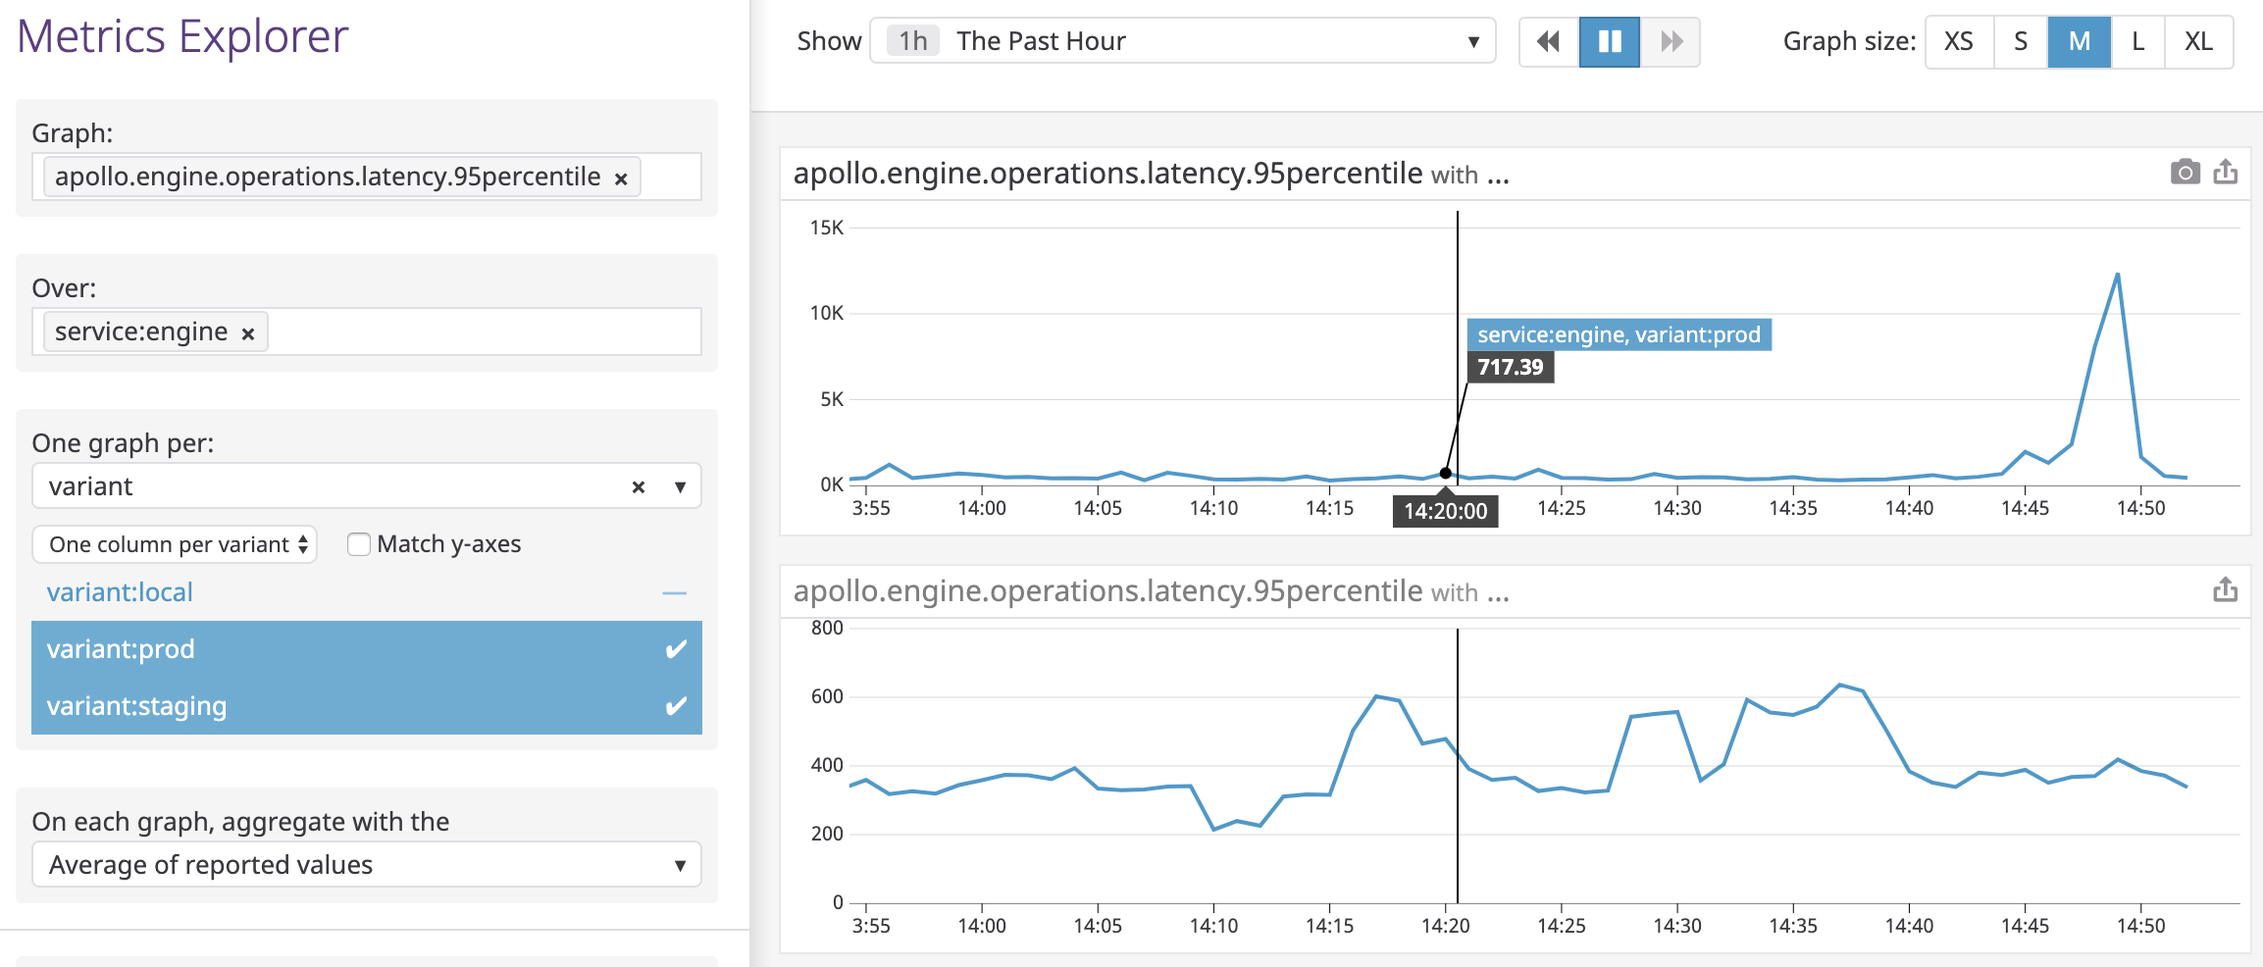
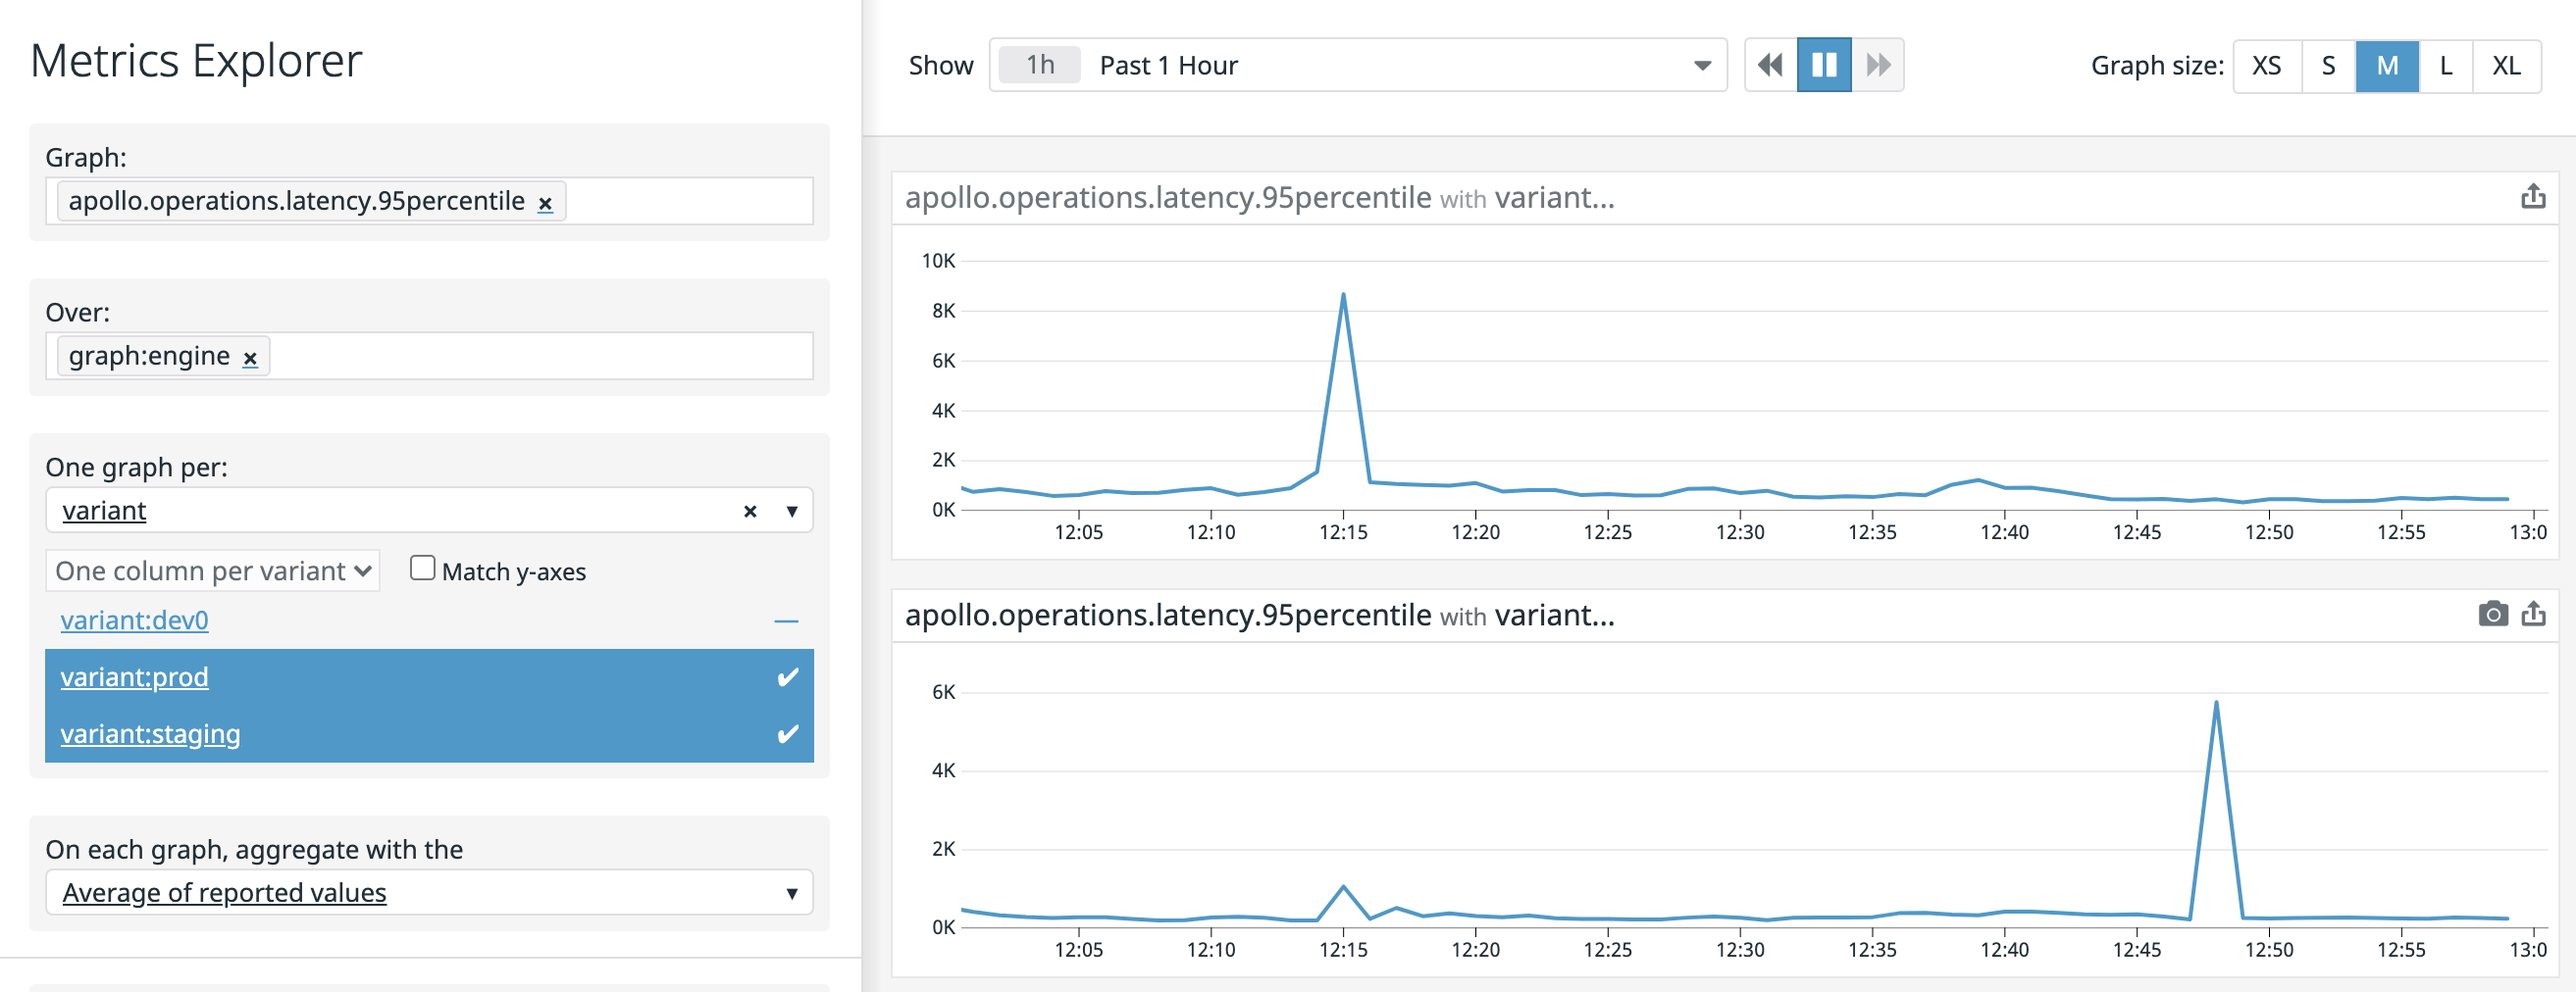
[AR-1853] Update Datadog integration docs for new metric names

diff --git a/studio-docs/source/datadog-integration.md b/studio-docs/source/datadog-integration.md
@@ -9,7 +9,7 @@ The **Apollo Datadog integration** enables you to forward Studio performance met
 
 To integrate with Datadog, you provide your Datadog API key and region to Studio. A Datadog account with administrator privileges is required to obtain an API key.
 
-1. Go to your [Datadog Integrations page](https://app.datadoghq.com/account/settings) and select **Apollo Engine** from the list:
+1. Go to your [Datadog Integrations page](https://app.datadoghq.com/account/settings) and select **Apollo** from the list:
 
     ![DatadogIntegrationTile](./img/datadog/integration-tile.png)
 
@@ -32,7 +32,7 @@ To integrate with Datadog, you provide your Datadog API key and region to Studio
 
     ![IntegrationsToggle](./img/datadog/settings-toggle.png)
 
-    You can use the same Datadog API key for all of your graphs, because all forwarded metrics are tagged with the corresponding graph's ID (`service:<graph-id>`).
+    You can use the same Datadog API key for all of your graphs, because all forwarded metrics are tagged with the corresponding graph's ID (`graph:<graph-id>`).
 
 6. That's it! After about five minutes, your Datadog metrics explorer will begin showing metrics forwarded from Studio.
 
@@ -42,29 +42,31 @@ Studio forwards the following metrics to Datadog:
 
 | Name | Description |
 | ------- | --------- |
-| `apollo.engine.operations.count` | The number of GraphQL operations that were executed. This includes queries, mutations, and operations that resulted in an error. |
-| `apollo.engine.operations.error_count` | The number of GraphQL operations that resulted in an error. This includes both GraphQL execution errors and HTTP errors if Studio failed to connect to your server. |
-| `apollo.engine.operations.cache_hit_count` | The number of GraphQL queries for which the result was served from Apollo Server's full query cache. |
-|`apollo.engine.operations.latency.min`<br/>`apollo.engine.operations.latency.median`<br/>`apollo.engine.operations.latency.95percentile`<br/>`apollo.engine.operations.latency.99percentile`<br/>`apollo.engine.operations.latency.max`<br/>`apollo.engine.operations.latency.avg`| A histogram of GraphQL operation response times, measured in milliseconds. Because of Studio's aggregation method (logarithmic binning), these values are accurate to +/- 5%. |
+| `apollo.operations.count` | The number of GraphQL operations that were executed. This includes queries, mutations, and operations that resulted in an error. |
+| `apollo.operations.error_count` | The number of GraphQL operations that resulted in an error. This includes both GraphQL execution errors and HTTP errors if Studio failed to connect to your server. |
+| `apollo.operations.cache_hit_count` | The number of GraphQL queries for which the result was served from Apollo Server's full query cache. |
+|`apollo.operations.latency.min`<br/>`apollo.operations.latency.median`<br/>`apollo.operations.latency.95percentile`<br/>`apollo.operations.latency.99percentile`<br/>`apollo.operations.latency.max`<br/>`apollo.operations.latency.avg`| A histogram of GraphQL operation response times, measured in milliseconds. Because of Studio's aggregation method (logarithmic binning), these values are accurate to +/- 5%. |
 
 
 These metrics are aggregated in 60-second intervals and tagged with the GraphQL operation name as `operation:<query-name>`. Unique query signatures with the same operation name are merged, and queries without an operation name are ignored.
 
-These metrics are also tagged with both the associated Studio graph ID (as `service:<graph-id>`) and the associated variant name (as `variant:<variant-name>`). If you haven't set a variant name, then `current` is used.
+These metrics are also tagged with both the associated Studio graph ID (as `graph:<graph-id>`) and the associated variant name (as `variant:<variant-name>`). If you haven't set a variant name, then `current` is used.
+
+If you set up your integration before October 2020, the metric names start with `apollo.engine.operations` instead of `apollo.operations`, and used a `service:<graph-id>` tag instead of `graph:<graph-id>`. This is called "legacy mode". You may transition your graph to modern mode by clicking the "Transition to modern mode" button on your graph's Integrations page. This is a one-way change; you should be prepared to update any dashboards and metrics to use the new metric and tag names when you click the button.
 
 ## Exploring metrics
 
-In the [Datadog metrics explorer](http://app.datadoghq.com/metric/explorer?exp_metric=apollo.engine.operations.count&exp_group=service&exp_agg=sum&exp_row_type=metric), all Studio metrics are [tagged](https://www.datadoghq.com/blog/the-power-of-tagged-metrics/) with the graph ID (`service:<graph-id>`), the variant name (`variant:<variant-name>`), and the operation name (`operation:<query-name>`). These values are normalized according to Datadog naming requirements (all letters are lowercase, and illegal symbols are converted to underscores).
+In the [Datadog metrics explorer](http://app.datadoghq.com/metric/explorer?exp_metric=apollo.operations.count&exp_group=graph&exp_agg=sum&exp_row_type=metric), all Studio metrics are [tagged](https://www.datadoghq.com/blog/the-power-of-tagged-metrics/) with the graph ID (`graph:<graph-id>`), the variant name (`variant:<variant-name>`), and the operation name (`operation:<query-name>`). These values are normalized according to Datadog naming requirements (all letters are lowercase, and illegal symbols are converted to underscores).
 
 Tagging enables you to see data at any level of granularity, whether you want to aggregate across all operations or zoom in to a particular operation. You can control granularity by choosing a relevant set of operation tags for filtering, along with appropriate functions for [time aggregation](https://docs.datadoghq.com/metrics/introduction/#time-aggregation) and [space aggregation](https://docs.datadoghq.com/metrics/introduction/#space-aggregation). Similarly, if you want to compare metrics across staging and production environments, you can filter with the appropriate variant tags.
 
 ### Example
 
-Suppose you want to see the 95th percentile request latency averaged across all operations for a staging and a production service.
+Suppose you want to see the 95th percentile request latency averaged across all operations for a staging and a production graph.
 
 In the [Datadog metrics explorer](https://app.datadoghq.com/metric/explorer):
-1. In the **Graph** field, select `apollo.engine.operations.latency.95percentile`.
-2. In the **Over** field, select the name of the service to graph.
+1. In the **Graph** field, select `apollo.operations.latency.95percentile`.
+2. In the **Over** field, select the name of the graph to display.
 3. In the **One graph per** field, select `variant`. Choose the variants for your production and staging environments.
 4. In the **On each graph, aggregate with the** field, select `Average of reported values`.
 
@@ -84,9 +86,9 @@ Studio's Notifications feature supports alerts that trigger when the percentage 
 
 The [Datadog metric alert query](https://docs.datadoghq.com/api/v1/monitors/#query-types) needed here is:
 ```
-sum(last_10m):sum:apollo.engine.operations.error_count{service:mygraph,variant:staging}.as_count().rollup(sum).fill(null) / sum:apollo.engine.operations.count{service:mygraph,variant:staging}.as_count().rollup(sum).fill(null) > 0.01
+sum(last_10m):sum:apollo.operations.error_count{graph:mygraph,variant:staging}.as_count().rollup(sum).fill(null) / sum:apollo.operations.count{graph:mygraph,variant:staging}.as_count().rollup(sum).fill(null) > 0.01
 ```
-The `.rollup(sum).fill(null)` is necessary because `apollo.engine.operations.count` is a [Datadog gauge](https://docs.datadoghq.com/developers/metrics/types/?tab=gauge#metric-types), which means it [defaults to using `avg` for time aggregation](https://docs.datadoghq.com/dashboards/functions/rollup/#rollup-interval-enforced-vs-custom) and [defaults to linear interpolation during space aggregation and query arithmetic](https://docs.datadoghq.com/monitors/guide/monitor-arithmetic-and-sparse-metrics/). The `.as_count()` is necessary to ensure that [operation counts are summed before the division and not after](https://docs.datadoghq.com/monitors/guide/as-count-in-monitor-evaluations/).
+The `.rollup(sum).fill(null)` is necessary because `apollo.operations.count` is a [Datadog gauge](https://docs.datadoghq.com/developers/metrics/types/?tab=gauge#metric-types), which means it [defaults to using `avg` for time aggregation](https://docs.datadoghq.com/dashboards/functions/rollup/#rollup-interval-enforced-vs-custom) and [defaults to linear interpolation during space aggregation and query arithmetic](https://docs.datadoghq.com/monitors/guide/monitor-arithmetic-and-sparse-metrics/). The `.as_count()` is necessary to ensure that [operation counts are summed before the division and not after](https://docs.datadoghq.com/monitors/guide/as-count-in-monitor-evaluations/).
 
 ### Example #2
 
@@ -95,6 +97,6 @@ Consider the error percentage monitor from the previous example. When the number
 You can use [Datadog composite monitors](https://docs.datadoghq.com/monitors/monitor_types/composite/) to support this kind of alert. First, create a monitor with the following metric alert query:
 
 ```
-sum(last_10m):sum:apollo.engine.operations.count{service:mygraph,variant:staging}.rollup(sum).fill(null) > 10
+sum(last_10m):sum:apollo.operations.count{graph:mygraph,variant:staging}.rollup(sum).fill(null) > 10
 ```
 Then create a composite monitor for the two monitors of the form `a && b`, which will have the desired behavior.
